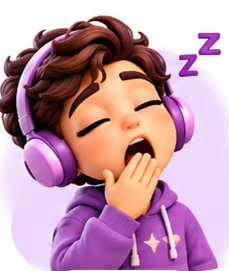
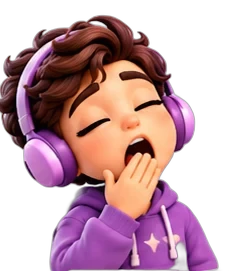
Boy guide: background removed from all boy pictures (transparent like the girl), new standing boy, boy face as default profile picture for male staff
Claude-Session: https://claude.ai/code/session_017J7zUGYBD81JM1rgDFR6hE

diff --git a/frontend/src/components/Doll.jsx b/frontend/src/components/Doll.jsx
@@ -31,7 +31,7 @@ const warm = () => { if (warmed) return; warmed = true; const go = () => Object.
 
 export default function Doll({ size = 210, mood = "idle", follow = true, className = "", userId, pet = false }) {
   const [temp, setTemp] = useState(null), [ok, setOk] = useState(true), wrap = useRef(null), tilt = useRef(null);
-  const state = temp || mood, boy = isMale(), src = boy ? B + (BOY[state] || "standing") + ".webp" : IMG[state] || IMG.idle, tall = !boy && TALL.has(src);
+  const state = temp || mood, boy = isMale(), src = boy ? B + (BOY[state] || "standing") + ".webp" : IMG[state] || IMG.idle, tall = boy ? state === "idle" : TALL.has(src);
   useEffect(warm, []);
   const taps = useRef({ n: 0, t: 0 }), tm = useRef(null);
   const react = (st, ms) => { setTemp(st); clearTimeout(tm.current); tm.current = setTimeout(() => setTemp(null), ms); };
@@ -69,7 +69,7 @@ export default function Doll({ size = 210, mood = "idle", follow = true, classNa
     <div ref={wrap} className={`doll s-${state} ${pet ? "pet" : ""} ${className}`} onClick={poke} style={{ width: size, height: Math.round(size * 0.92) }}>
       <div className="doll-tilt" ref={tilt}>
         <div className="doll-swap" key={src}>
-          <img src={src} alt="" decoding="async" draggable="false" className={boy ? "fit boy" : tall ? "tall" : "fit"} onError={() => setOk(false)} />
+          <img src={src} alt="" decoding="async" draggable="false" className={tall ? "tall" : "fit"} onError={() => setOk(false)} />
         </div>
       </div>
       {(BUBBLE[state] || (pet && MOTIVE[state])) && <span key={state} className={`doll-bubble b-${state}`}>{BUBBLE[state] || MOTIVE[state]}</span>}

diff --git a/frontend/src/components/GirlFace.jsx b/frontend/src/components/GirlFace.jsx
@@ -1,4 +1,5 @@
 // Her face as a round profile picture, for people who have not added a photo.
 export default function GirlFace({ size = 78 }) {
-  return <span className="girl-face" style={{ width: size, height: size }}><img src="/dolls/avatar.webp" alt="" draggable="false" /></span>;
+  let male = false; try { male = /^male$/i.test(JSON.parse(localStorage.getItem("user") || "{}").gender || ""); } catch {}
+  return <span className="girl-face" style={{ width: size, height: size }}><img src={male ? "/buddy/happy.webp" : "/dolls/avatar.webp"} alt="" draggable="false" /></span>;
 }

diff --git a/frontend/src/theme.css b/frontend/src/theme.css
@@ -1446,7 +1446,6 @@ html[data-theme="peach"] .cdx.cdx { --ink-1: #5A3A33; --ink-2: #8A5E54; --ink-3:
 .lib-guide b { display: block; font-size: 14.5px; }
 .lib-guide span { font-size: 12.5px; color: var(--ink-soft); }
 
-.doll img.boy { border-radius: 22px; filter: none; box-shadow: 0 10px 22px rgba(70, 45, 150, .18); background: #fff; }
 
 /* iPhone: keep inputs at 16px so Safari does not zoom in, and stop rubber-band scroll of the whole page */
 @supports (-webkit-touch-callout: none) { input, select, textarea { font-size: 16px; } html, body { overscroll-behavior-y: none; } }
